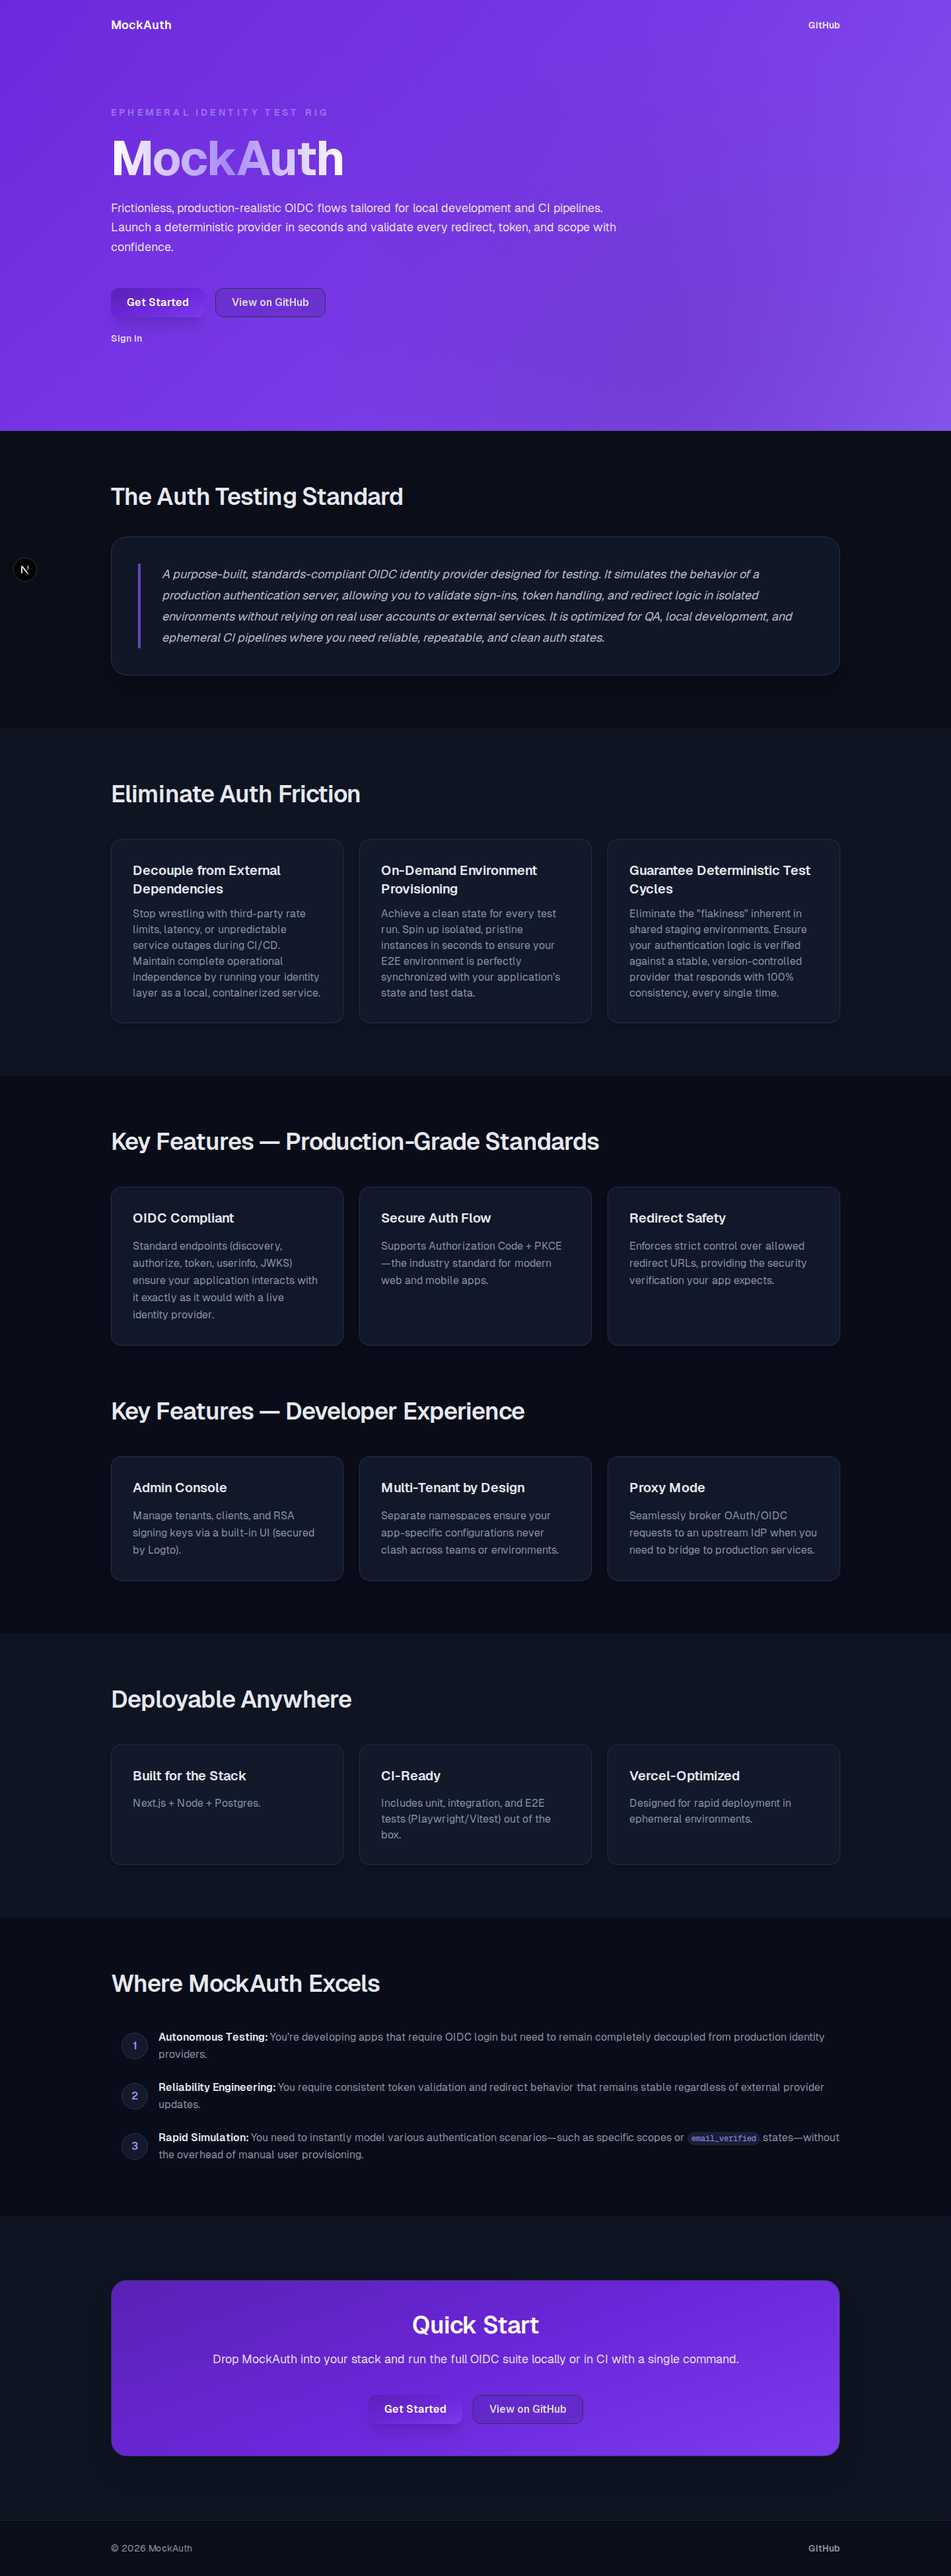
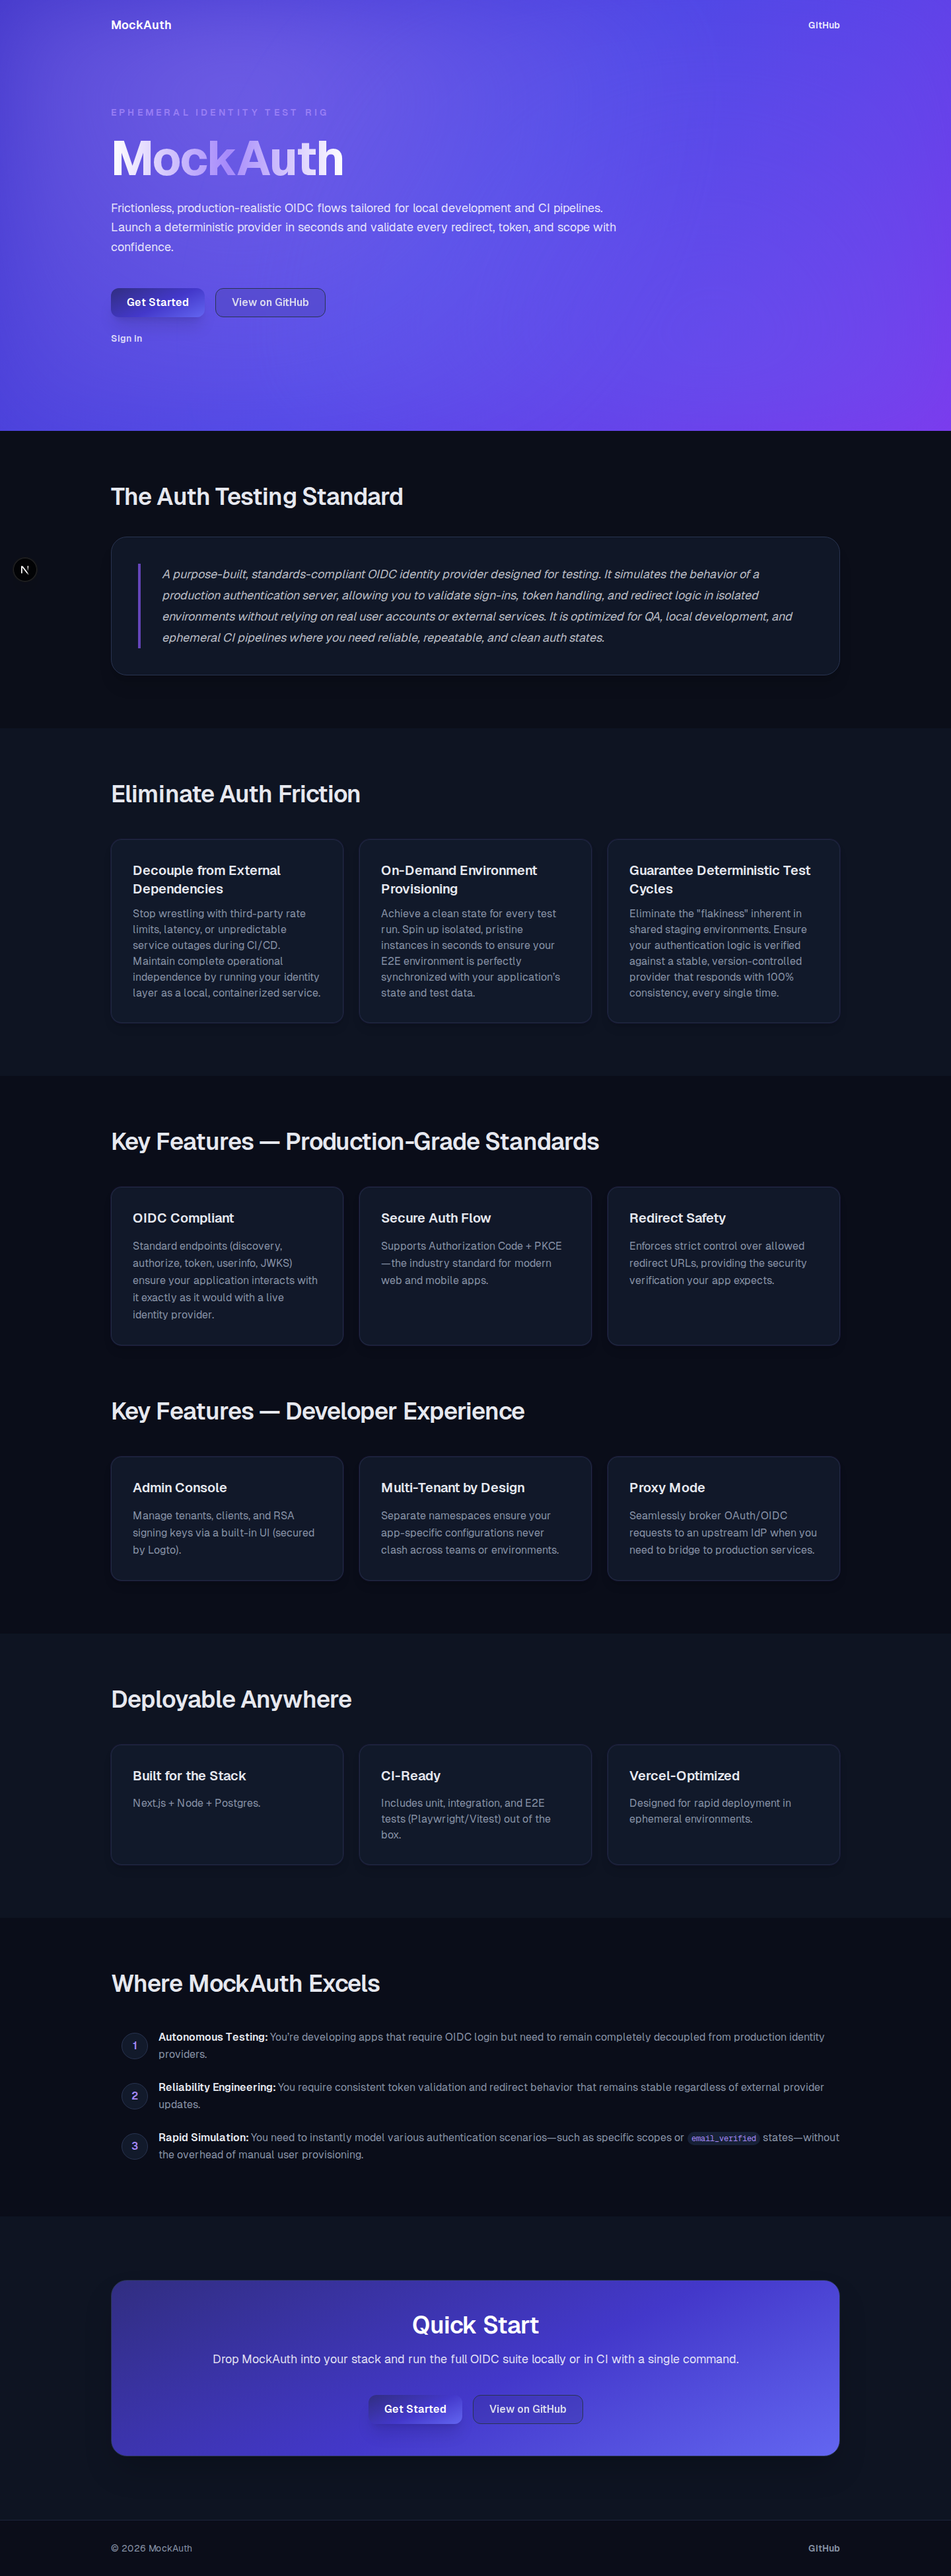
chore(qa): refresh hero and cta captures

Changed region(s): [[0.0, 0.0, 1.0, 0.1862], [0.0938, 0.8692, 0.9062, 0.9623]]

diff --git a/scripts/capture-screenshots.ts b/scripts/capture-screenshots.ts
@@ -37,6 +37,35 @@ async function captureHeroMobile(browser: string) {
   }
 }
 
+async function captureCtaDesktop(browser: string) {
+  const instance = await chromium.launch();
+  try {
+    const page = await instance.newPage({ viewport: { width: 1440, height: 900 } });
+    await page.goto(`${BASE_URL}/`, { waitUntil: "networkidle" });
+    await page.locator("#quick-start").scrollIntoViewIfNeeded();
+    await waitForIdle(600);
+    const cta = await page.locator("#quick-start");
+    await cta.screenshot({ path: path.join(OUTPUT_DIR, `${browser}-cta-desktop.png`) });
+  } finally {
+    await instance.close();
+  }
+}
+
+async function captureCtaMobile(browser: string) {
+  const instance = await chromium.launch();
+  try {
+    const mobileContext = await instance.newContext({ ...devices["iPhone 14"], locale: "en-US" });
+    const page = await mobileContext.newPage();
+    await page.goto(`${BASE_URL}/`, { waitUntil: "networkidle" });
+    await page.locator("#quick-start").scrollIntoViewIfNeeded();
+    await waitForIdle(600);
+    const cta = await page.locator("#quick-start");
+    await cta.screenshot({ path: path.join(OUTPUT_DIR, `${browser}-cta-mobile.png`) });
+  } finally {
+    await instance.close();
+  }
+}
+
 async function createAdminSession() {
   const browser = await chromium.launch();
   try {
@@ -85,6 +114,8 @@ async function main() {
   await ensureOutputDir();
   await captureHeroDesktop("mockauth");
   await captureHeroMobile("mockauth");
+  await captureCtaDesktop("mockauth");
+  await captureCtaMobile("mockauth");
   await captureAdminClients("mockauth");
 }
 
